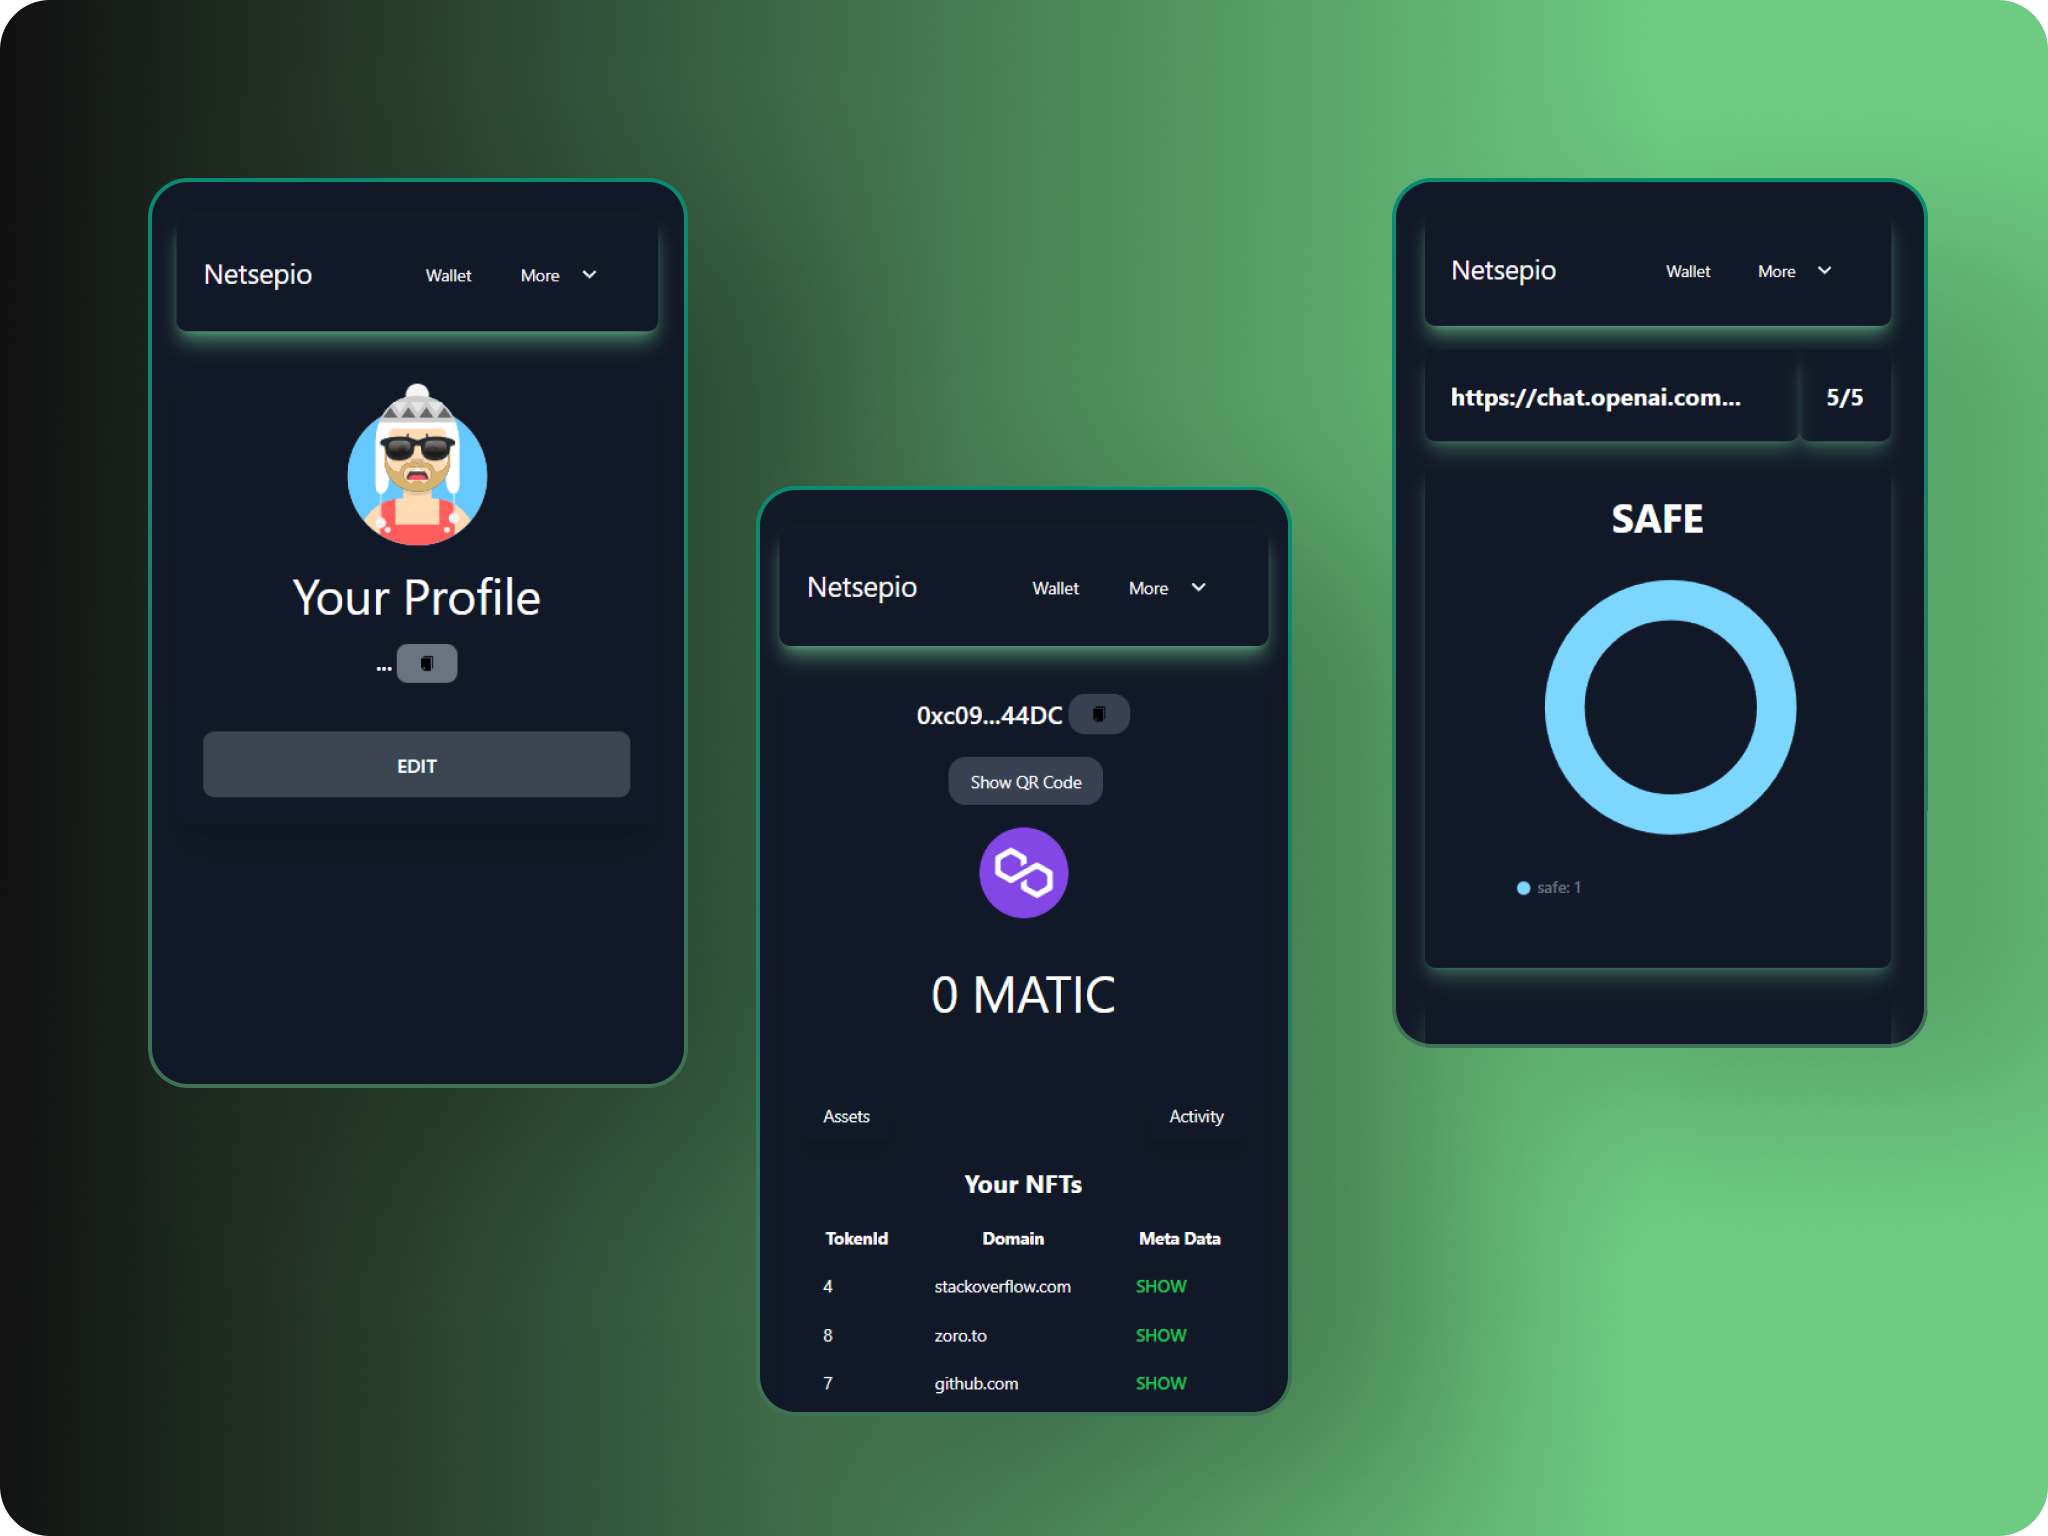
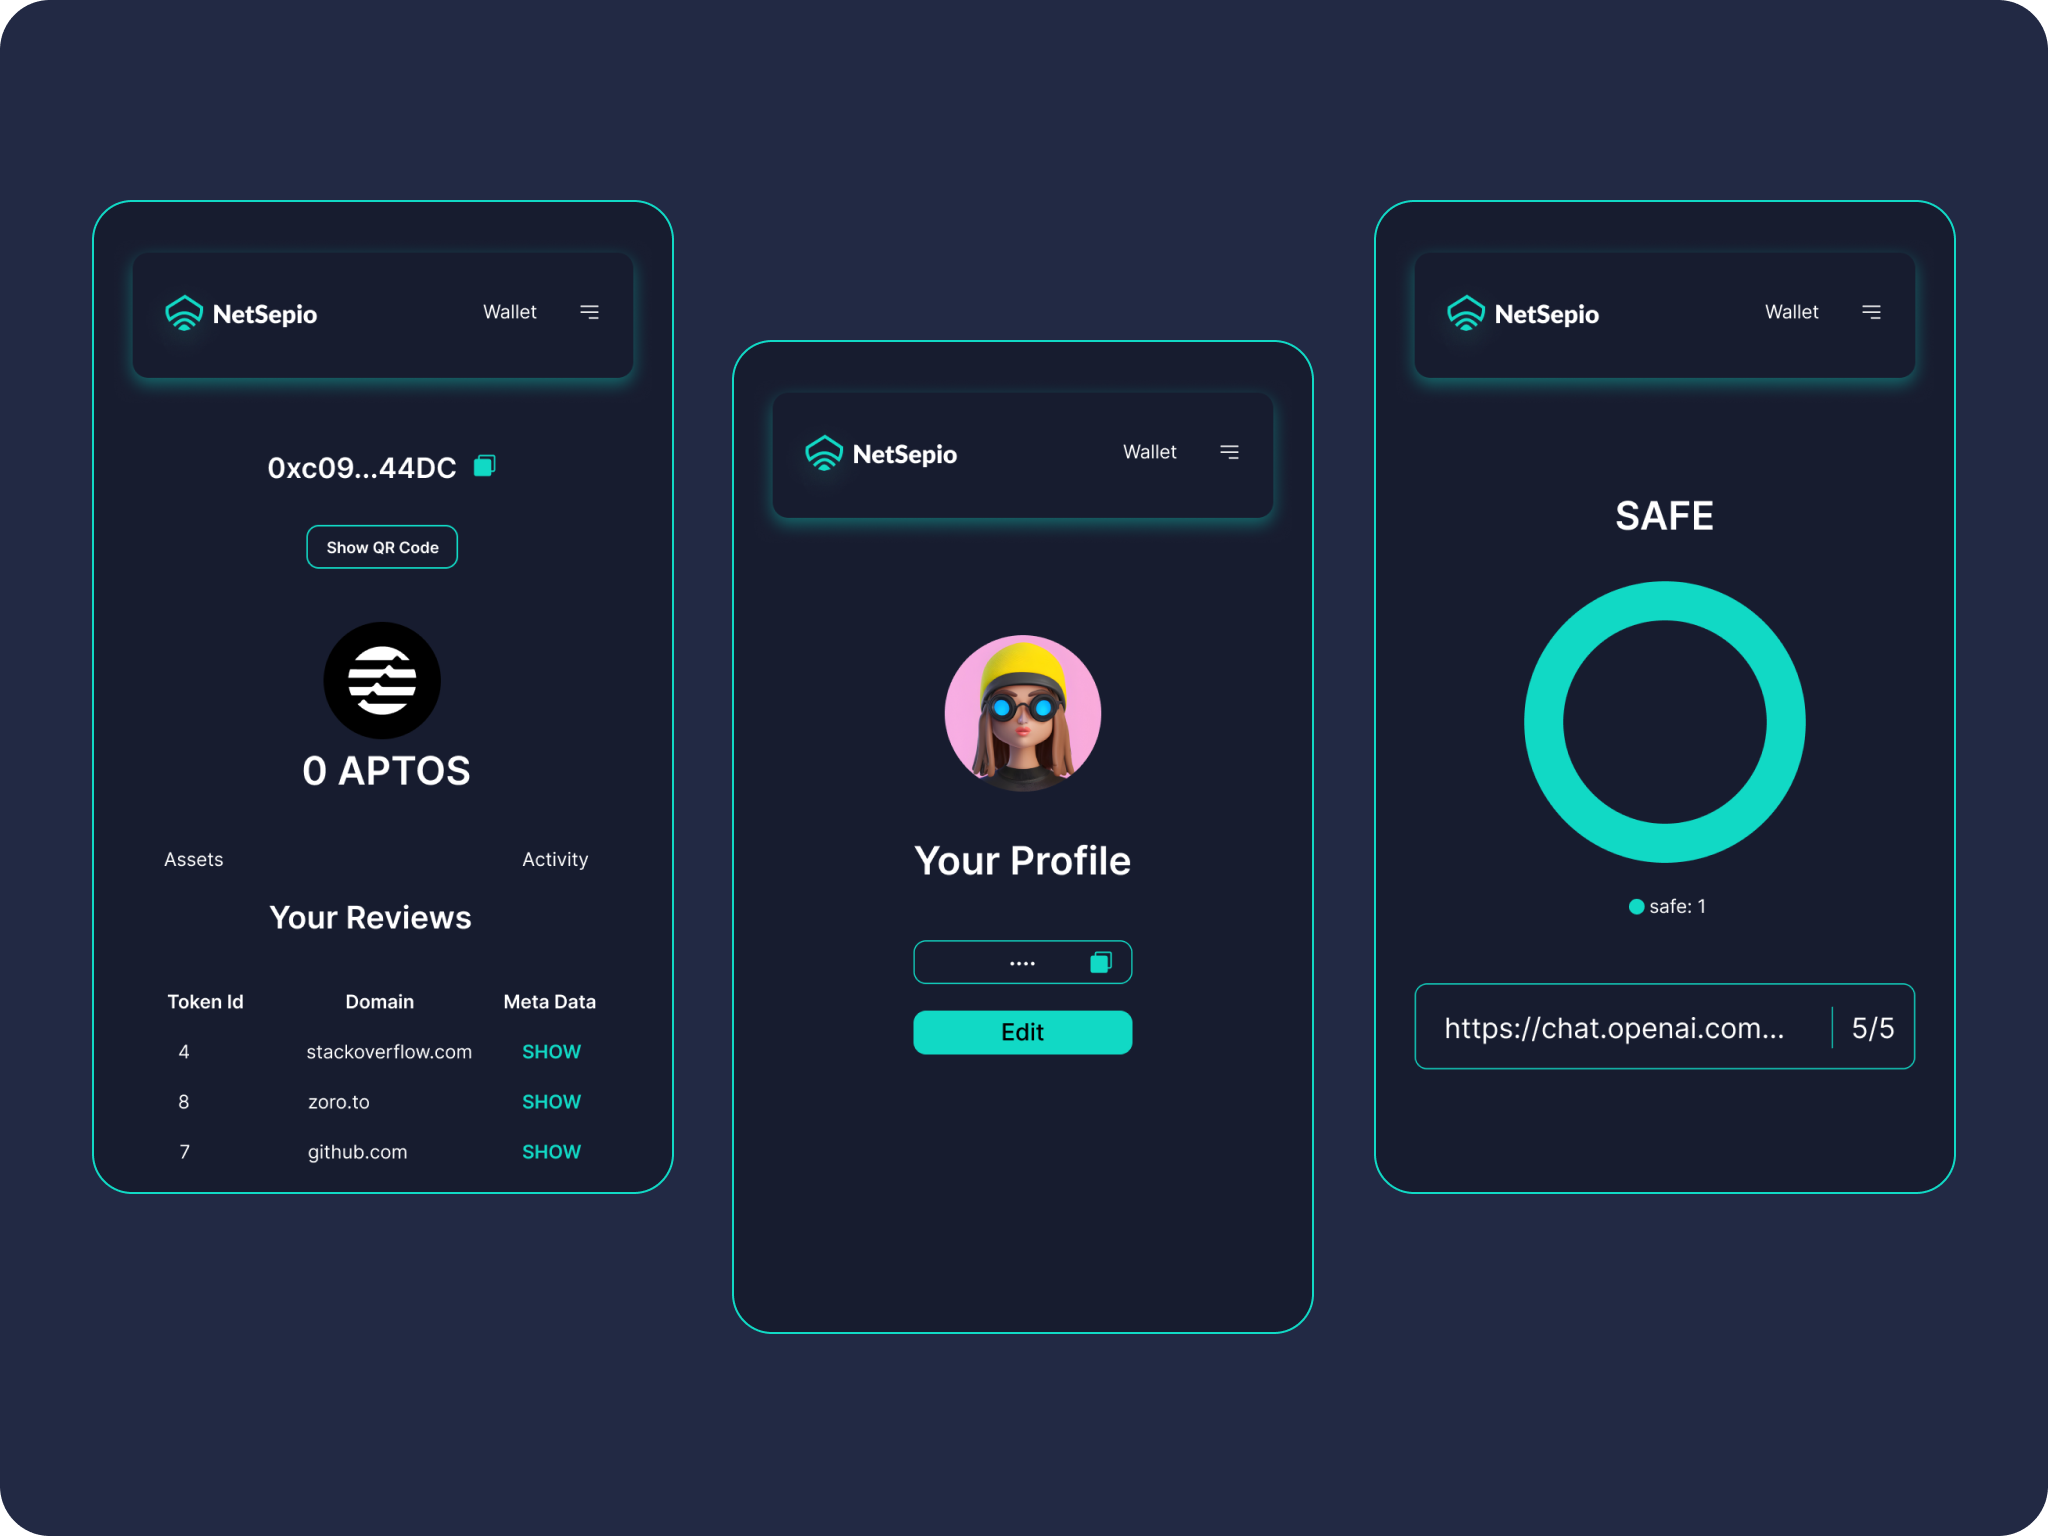
changes

diff --git a/index.html b/index.html
@@ -171,11 +171,16 @@
                 </div>
 
                 <div class="w-full mx-auto mt-20 text-center md:w-10/12">
-                    <div class="relative z-0 lg:w-1/3 md:w-1/2 w-full mt-8 mx-auto">
+                    <!-- <div class="relative z-0 lg:w-1/3 md:w-1/2 w-full mt-8 mx-auto">
                         <div class="relative overflow-hidden shadow-2xl border border-green-200 rounded-3xl">
                             <img src="images/net3.png" alt="NetSepio">
                         </div>
-                    </div>
+                    </div> -->
+                    <div class="relative z-0 w-full mt-8 mx-auto">
+                      <div class="relative overflow-hidden shadow-2xl border border-green-200 rounded-3xl">
+                          <img src="images/net2.png" alt="NetSepio">
+                      </div>
+                  </div>
                 </div>
             </div>
         </section>
